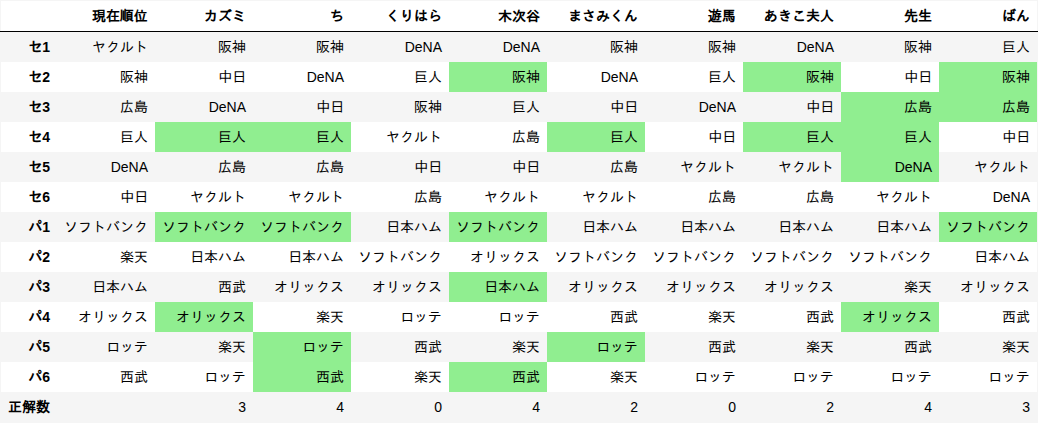
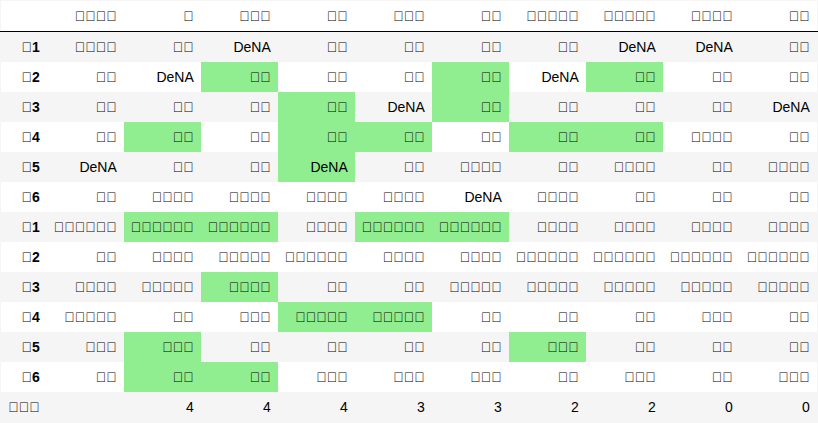
Weekly ranking update

diff --git a/README.md b/README.md
@@ -6,3 +6,5 @@
 
 ## 予想スコア推移
 ![スコア推移](score.gif)
+![最新順位表](weekly_tables/ranking_table_2026-04-08.png)
+![正解数推移](score_history_plot.png)
